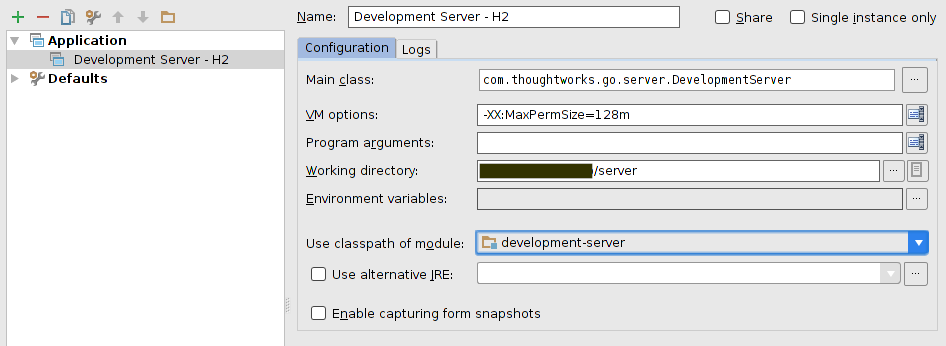
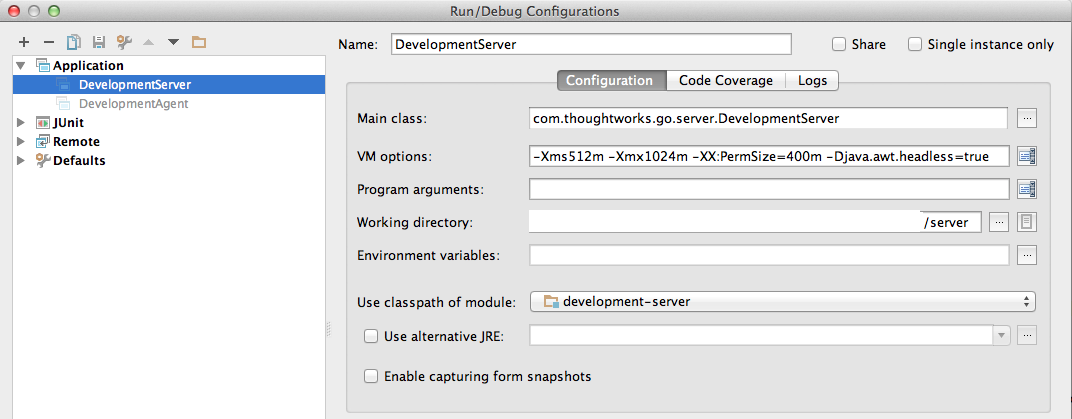
Made changes to update dev server & agent.

Changed region(s): [[0.0, 0.0, 1.0, 1.0], [0.2759, 0.8671, 0.5825, 0.9249], [0.3066, 0.7514, 0.4905, 0.8382]]

diff --git a/3/3.1.md b/3/3.1.md
@@ -133,16 +133,11 @@ following commands to build Go
 ```
 ~/projects/go$ unset GEM_HOME
 ~/projects/go$ unset GEM_PATH
-~/projects/go$ ./tools/jruby/bin/jruby -J-Xmx2048m -S buildr clean cruise:prepare
+~/projects/go$ ./bn clean cruise:prepare dist
 ```
 
-The above set of commands are captured as part of an executable file named
-"**bn**" at the root of the project. In order to achieve the output same as the
-above set of commands, you could optionally choose to run
-
-```
-~/projects/go$ ./bn clean cruise:prepare
-```
+The "**bn**" command is captured as part of an executable file named
+"**bn**" at the root of the project.
 
 After a successful build, the build artifacts are generated inside a directory
 named "**target**" in the working directory. The output directory contains JARs
@@ -186,9 +181,9 @@ When developing using IntelliJ IDEA, it is always convenient to run the Go Serve
 The IDEA **Application** run-configuration can be setup using the values below:
 
 ```
-Name: Development Server - H2
+Name: Development Server
 Main Class: com.thoughtworks.go.server.DevelopmentServer
-VM options: -XX:MaxPermSize=128m
+VM options: -Xms512m -Xmx1024m -XX:PermSize=400m
 Working directory: <project-directory>/server
 Use classpath of module: development-server
 ```
@@ -198,3 +193,14 @@ Configuring IntelliJ IDEA *run-configuration*
 
 Running *Development Server* from IntelliJ IDEA
 ![](images/idea_run_configuration.png)
+
+## 3.1.5 Running Development Agent via IntelliJ IDEA
+
+The IDEA **Application** run-configuration can be setup using the values below:
+
+```
+Name: Development Agent
+Main Class: com.thoughtworks.go.server.DevelopmentAgent
+Working directory: <project-directory>/agent
+Use classpath of module: development-agent
+```
